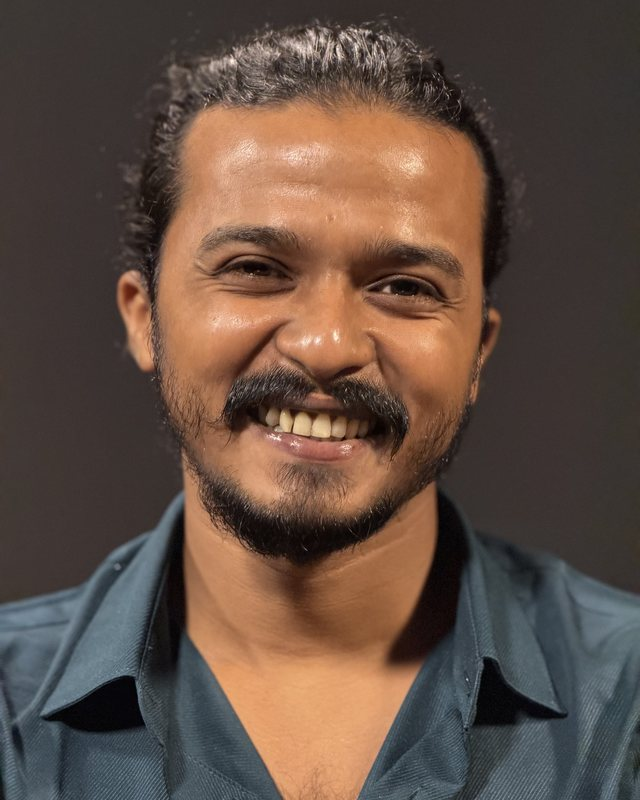
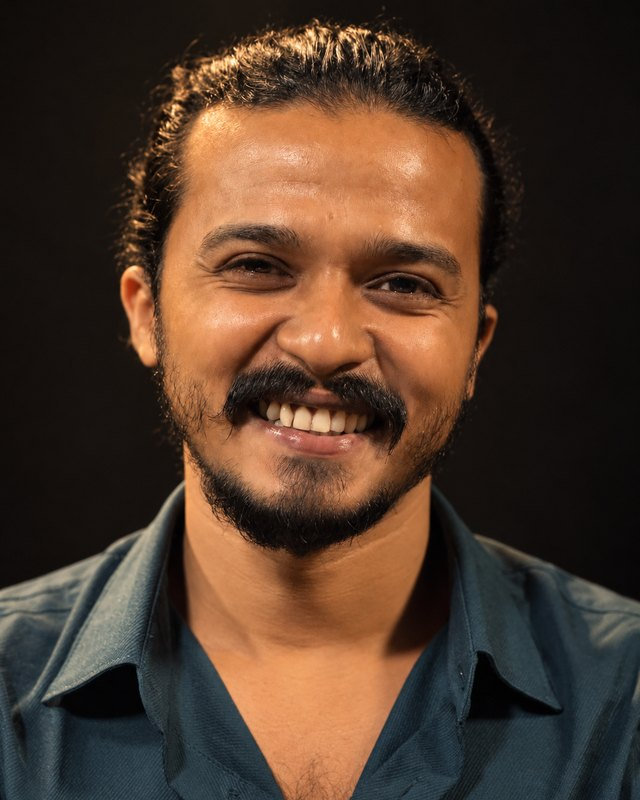
feat(consult): new studio portrait (sharper, better light), native-size responsive images

diff --git a/app/(home)/consult/page.tsx b/app/(home)/consult/page.tsx
@@ -124,16 +124,16 @@ export default async function Consult({
               <picture>
                 <source
                   type="image/webp"
-                  srcSet="/consult/khalid-640.webp 640w, /consult/khalid-1000.webp 1000w, /consult/khalid-1400.webp 1400w"
+                  srcSet="/consult/khalid-640.webp 640w, /consult/khalid-1080.webp 1080w"
                   sizes="(max-width: 960px) min(88vw, 460px), 420px"
                 />
                 <img
-                  src="/consult/khalid-1000.jpg"
-                  srcSet="/consult/khalid-640.jpg 640w, /consult/khalid-1000.jpg 1000w, /consult/khalid-1400.jpg 1400w"
+                  src="/consult/khalid-1080.jpg"
+                  srcSet="/consult/khalid-640.jpg 640w, /consult/khalid-1080.jpg 1080w"
                   sizes="(max-width: 960px) min(88vw, 460px), 420px"
                   alt="Khalid Bin Helaly, founder of TOPZID"
-                  width={1000}
-                  height={1250}
+                  width={1080}
+                  height={1350}
                   fetchPriority="high"
                 />
               </picture>
